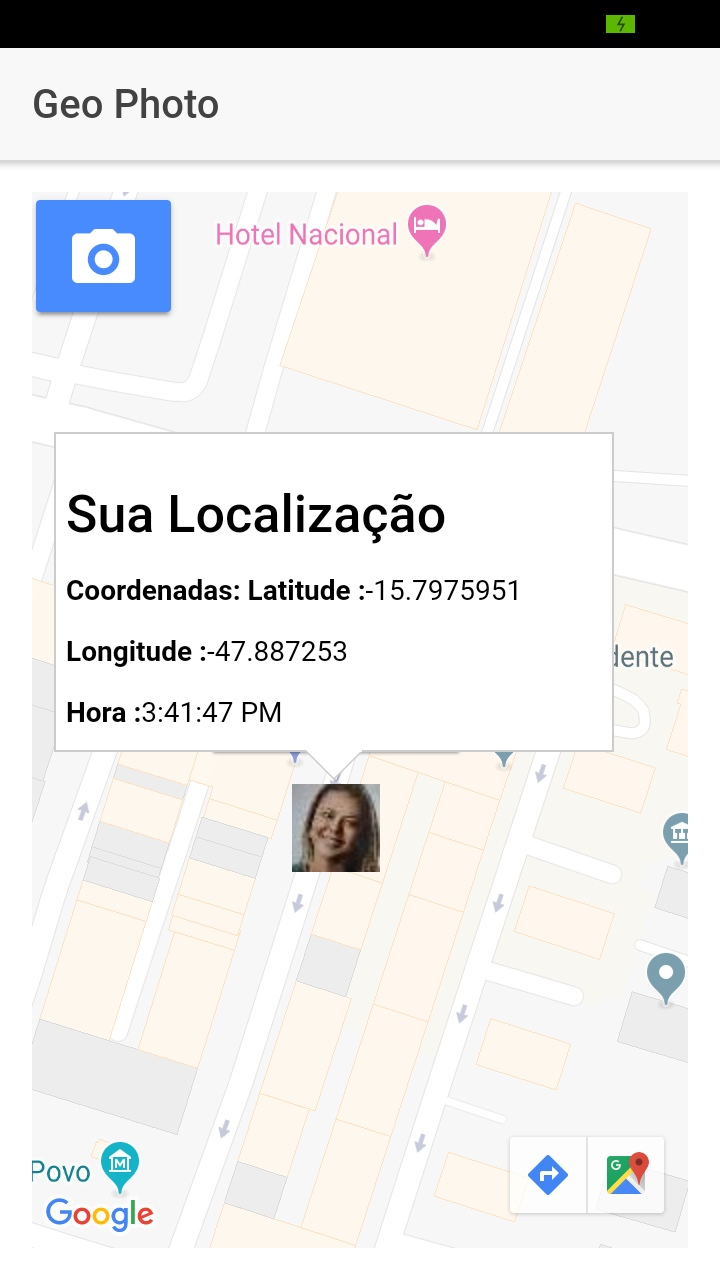
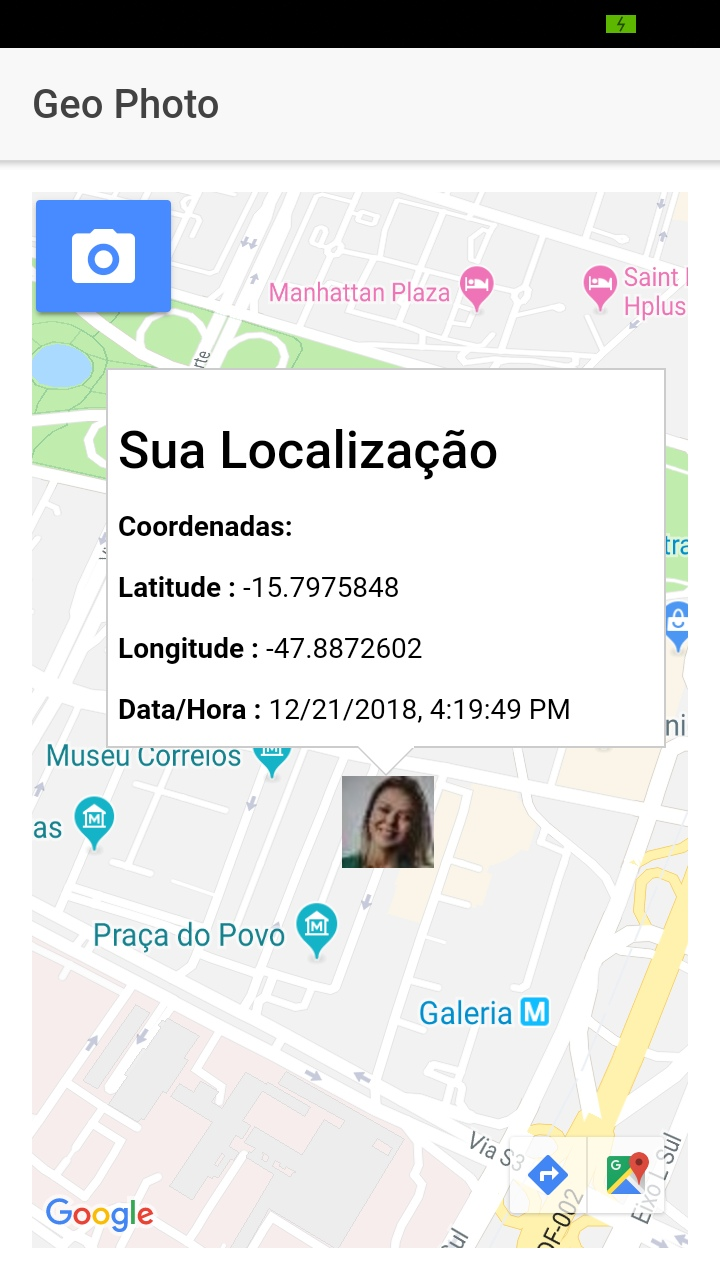
Prints 3

diff --git a/src/pages/home/home.ts b/src/pages/home/home.ts
@@ -96,9 +96,10 @@ export class HomePage {
       '</div>' +
       '<h1 id="firstHeading" class="firstHeading">Sua Localização</h1>' +
       '<div id="bodyContent">' +
-      '<p><b>Coordenadas: Latitude :</b>' + this.currentCoords.lat + '<p>' +
-      '<p><b>Longitude :</b>' + this.currentCoords.long + '<p>' +
-      '<p><b>Hora :</b>' + new Date().toLocaleTimeString() + '<p>' +
+      '<p><b>Coordenadas: </b></p>'+
+      '<p><b>Latitude : </b>' + this.currentCoords.lat + '<p>' +
+      '<p><b>Longitude : </b>' + this.currentCoords.long + '<p>' +
+      '<p><b>Data/Hora : </b>' + new Date().toLocaleString() + '<p>' +
       '</p>' +
       '</div>' +
       '</div>';
@@ -118,7 +119,7 @@ export class HomePage {
 
       htmlInfoWindow.setContent(contentString, {
         width: "260px",
-        height: "150px"
+        height: "180px"
       });
 
       marker.on(GoogleMapsEvent.MARKER_CLICK).subscribe(() => {
@@ -129,7 +130,7 @@ export class HomePage {
     let parametros = {
       long: this.currentCoords.long,
       lat: this.currentCoords.lat,
-      hora: new Date().toLocaleTimeString(),
+      hora: new Date().toLocaleString(),
       imagem: foto
     }
     this.saveInDB(parametros);
